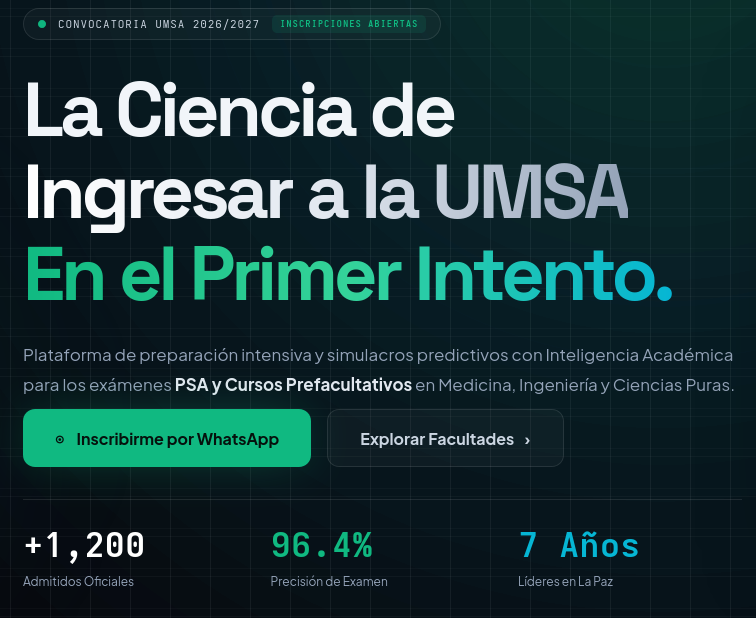
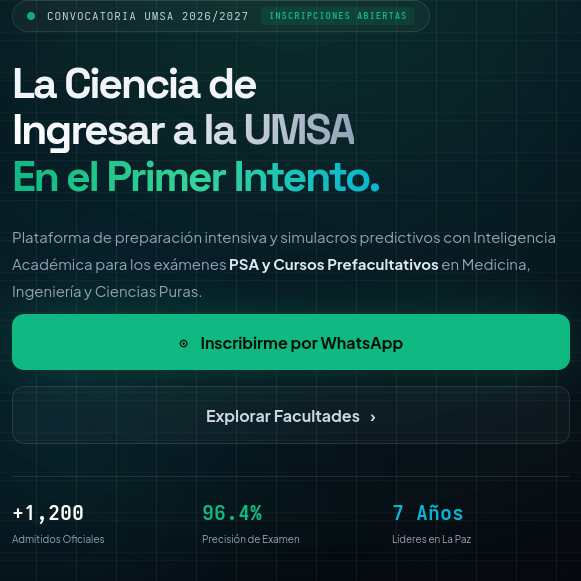
Update

diff --git a/src/app/layout.tsx b/src/app/layout.tsx
@@ -106,8 +106,8 @@ openGraph: {
     images: [
       {
         url: '/og.png', // O la URL absoluta donde alojes la imagen
-        width: 756,
-        height: 618,
+        width: 581,
+        height: 581,
         alt: 'Academia Pre-UMSA | Preparación PSA y Prefacultativos',
       },
     ],
